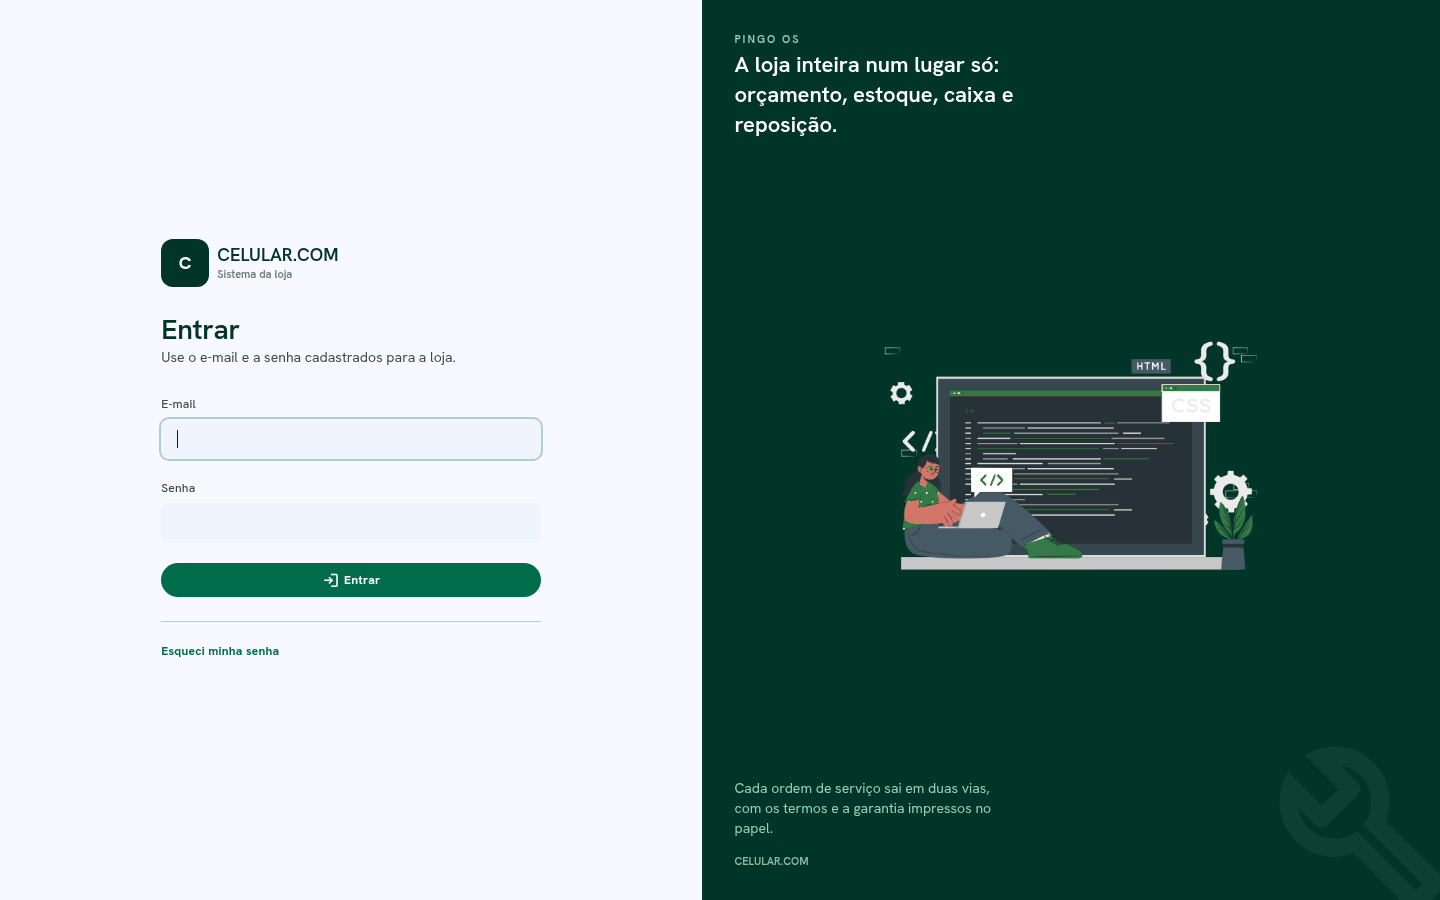
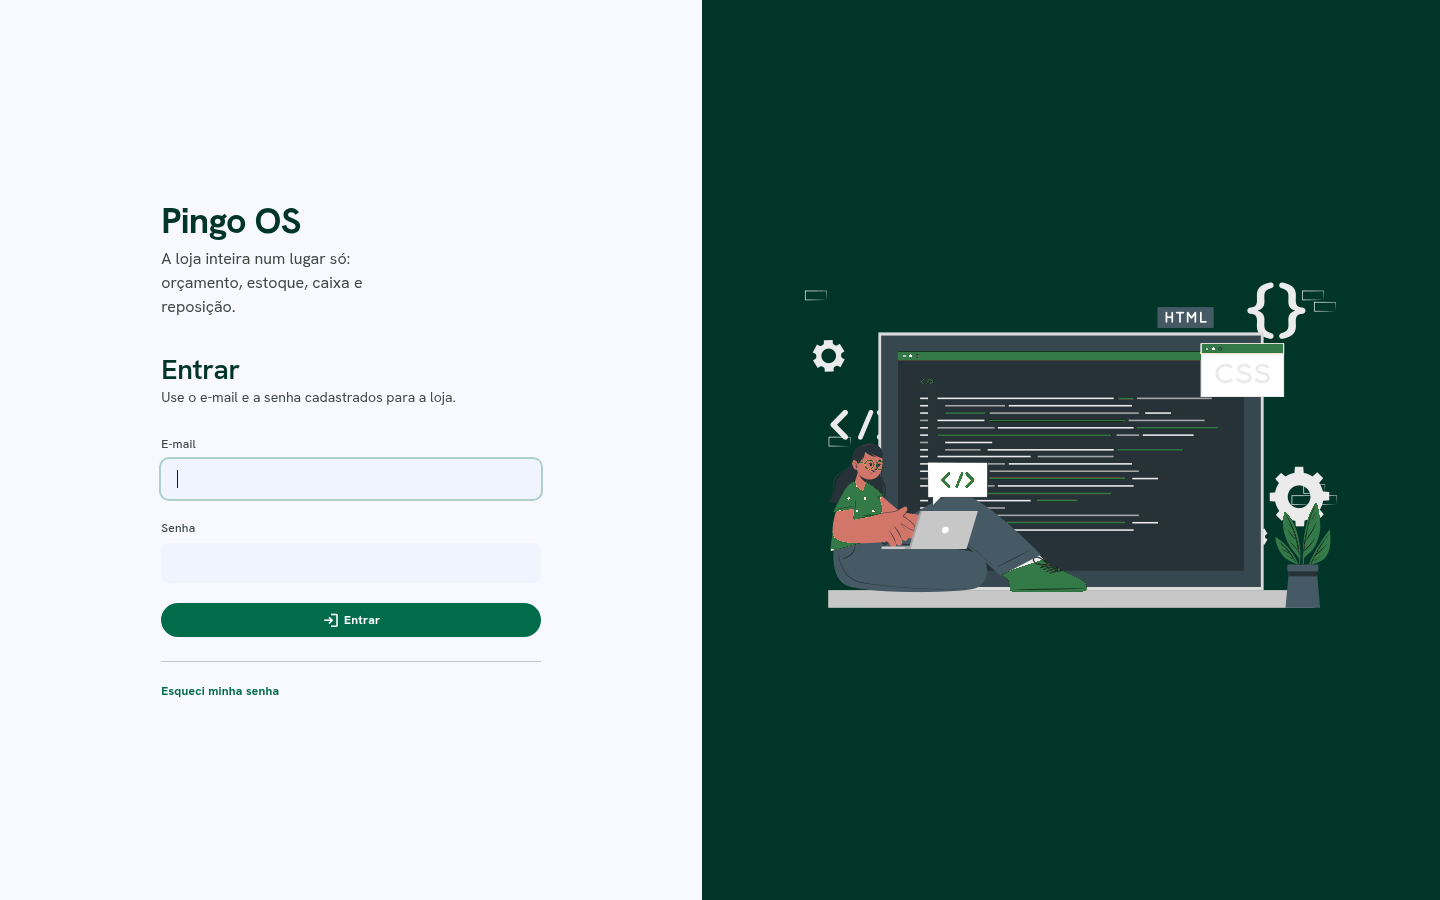
feat: Redesign login and password recovery screens for improved user experience

diff --git a/CHANGES.md b/CHANGES.md
@@ -13,16 +13,19 @@ Login e recuperação passaram a dividir a tela: **card à esquerda, painel de i
 `_PainelIlustracao.cshtml` — as duas telas são a mesma moldura, muda só o card. Abaixo de `lg` o
 painel some e o card ocupa a largura toda.
 
-O painel usa o verde institucional (`primary #003527`), a ilustração, uma frase do que o sistema
-faz e o nome da loja. Como assinatura, o ícone de chave inglesa em escala grande, cortado pela
-borda inferior direita a 5% de opacidade.
+O card à esquerda abre com **Pingo OS** e a frase do que o sistema faz, acima do título da ação
+("Entrar" ou "Esqueci minha senha"). O painel à direita ficou só com a ilustração, centralizada e
+alinhada com o card, sobre o verde institucional (`primary #003527`).
+
+O bloco de identidade da loja saiu do card: exibia o nome da loja onde se espera o nome do sistema,
+e a loja já aparece na barra superior depois do login.
 
 ### Arquivos Alterados
 
 | Arquivo | Alteração |
 |---|---|
 | `Views/Shared/_PainelIlustracao.cshtml` | **novo** — painel direito compartilhado |
-| `Views/Conta/Login.cshtml` | reescrita em duas colunas; identidade da loja acima do formulário |
+| `Views/Conta/Login.cshtml` | reescrita em duas colunas; só o formulário no card |
 | `Views/Conta/EsqueciSenha.cshtml` | reescrita na mesma moldura do login |
 | `Views/Conta/Usuarios.cshtml` | `max-w-[1000px]` → `max-w-[1440px]` |
 | `wwwroot/img/code-typing.png` | **novo** — ilustração Storyset recolorida |
@@ -31,8 +34,8 @@ borda inferior direita a 5% de opacidade.
 ### Sobre a ilustração
 O Storyset não serve o SVG do estilo *cuate* publicamente — só o PNG 600×400, no amarelo padrão
 (`#FFC727`). Baixei o PNG e remapeei a família do amarelo para o verde `#357A49` pedido,
-preservando as variações de tom (10.566 pixels). Como é PNG, é exibido em no máximo 420px de
-largura para não perder nitidez.
+preservando as variações de tom (10.566 pixels). Exibida em no máximo 600px — a resolução nativa
+do arquivo, o limite antes de perder nitidez.
 
 > **Atribuição:** ilustração da [Storyset](https://storyset.com) (Freepik). O uso gratuito exige
 > crédito visível no projeto — ainda **não** adicionado. Ver ROADMAP.
